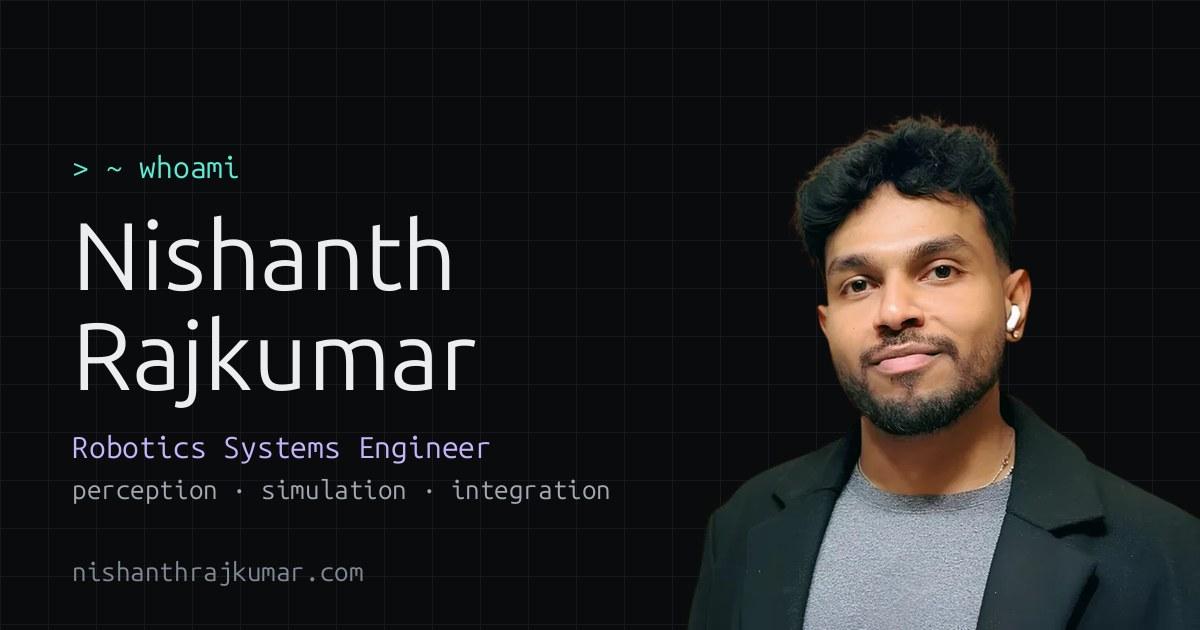
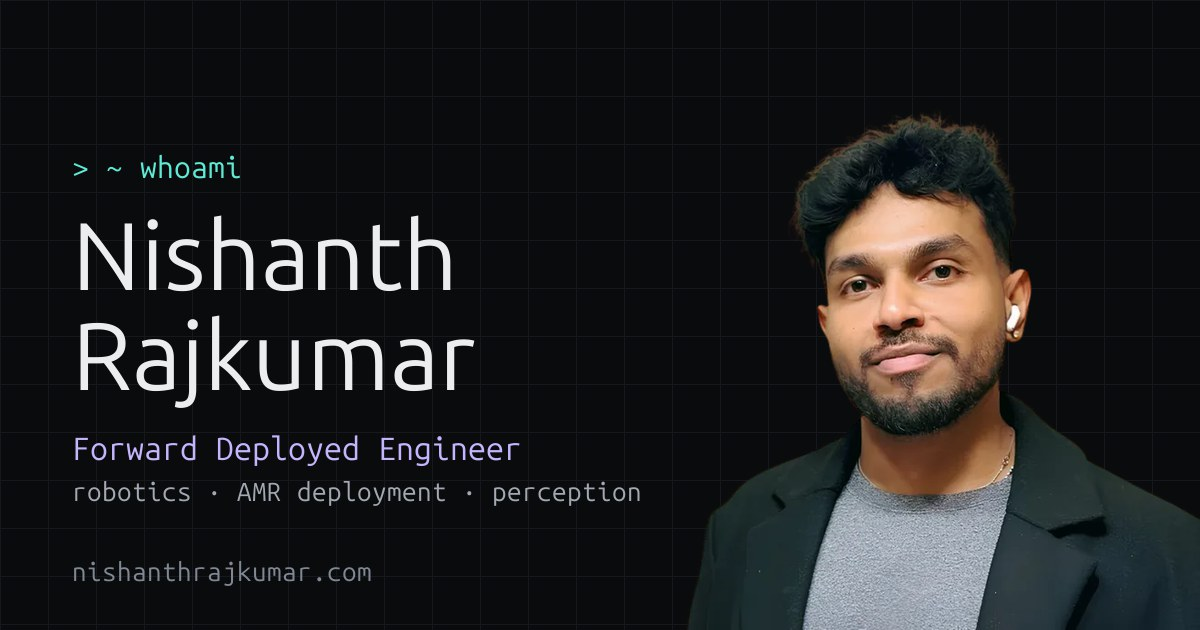
Hero: present as a forward deployed engineer for robots
Leads the role tags, intro, profile card, page title, share text and
preview image with Forward Deployed Engineer, keeping the Rockwell
Automation systems engineer title as the current position.

diff --git a/index.html b/index.html
@@ -2,15 +2,15 @@
 <html lang="en"><head>
 <meta charset="utf-8">
 <meta name="viewport" content="width=device-width, initial-scale=1, viewport-fit=cover">
-<title>Nishanth Rajkumar — Robotics Systems Engineer</title>
-<meta name="description" content="Nishanth Rajkumar, Robotics Systems Engineer at Rockwell Automation. Robot perception, simulation, systems integration and industrial AMR deployment.">
+<title>Nishanth Rajkumar — Forward Deployed Engineer, Robotics</title>
+<meta name="description" content="Nishanth Rajkumar, forward deployed engineer for robots. Deploys autonomous industrial AMRs at Rockwell Automation, from commissioning to production, and builds robot perception, simulation and integration systems.">
 <link rel="canonical" href="https://nishanthrajkumar.com/">
 <meta name="theme-color" content="#0A0B0D">
 <meta name="color-scheme" content="dark">
 <meta property="og:type" content="website">
 <meta property="og:site_name" content="Nishanth Rajkumar">
-<meta property="og:title" content="Nishanth Rajkumar — Robotics Systems Engineer">
-<meta property="og:description" content="Nishanth Rajkumar, Robotics Systems Engineer at Rockwell Automation. Robot perception, simulation, systems integration and industrial AMR deployment.">
+<meta property="og:title" content="Nishanth Rajkumar — Forward Deployed Engineer, Robotics">
+<meta property="og:description" content="Nishanth Rajkumar, forward deployed engineer for robots. Deploys autonomous industrial AMRs at Rockwell Automation, from commissioning to production, and builds robot perception, simulation and integration systems.">
 <meta property="og:url" content="https://nishanthrajkumar.com/">
 <meta property="og:image" content="https://nishanthrajkumar.com/img/og-card.jpg">
 <meta property="og:image:width" content="1200">
@@ -26,7 +26,7 @@ body{margin:0;background:#0A0B0D}
 a{color:#ECEDEE}a:hover{color:#A78BFA}
 </style>
 <link rel="stylesheet" href="site.css">
-<script type="application/ld+json">{"@context": "https://schema.org", "@type": "Person", "name": "Nishanth Rajkumar", "url": "https://nishanthrajkumar.com/", "jobTitle": "Robotics Systems Engineer", "worksFor": {"@type": "Organization", "name": "Rockwell Automation"}, "sameAs": ["https://github.com/nishanthrajkumarr"]}</script>
+<script type="application/ld+json">{"@context": "https://schema.org", "@type": "Person", "name": "Nishanth Rajkumar", "url": "https://nishanthrajkumar.com/", "jobTitle": "Forward Deployed Engineer, Robotics", "worksFor": {"@type": "Organization", "name": "Rockwell Automation"}, "sameAs": ["https://github.com/nishanthrajkumarr"]}</script>
 <script src="site.js" defer></script>
 </head>
 <body>
@@ -59,13 +59,14 @@ a{color:#ECEDEE}a:hover{color:#A78BFA}
 <p class="prompt"><span class="ps">➜</span><span class="path">~</span><span>whoami</span></p>
 <h1 style="color:#FFFFFF;background:var(--surface)">Nishanth<br>Rajkumar</h1>
 <ul class="roles">
-<li class="role">Robotics Systems Engineer</li>
+<li class="role" style="color: var(--mint); border-color: rgba(94, 234, 212, .4)">Forward Deployed Engineer · Robotics</li>
+<li class="role">AMR Deployment</li>
 <li class="role">Robot Perception</li>
 <li class="role">Simulation</li>
 <li class="role">Systems Integration</li>
 </ul>
-<p class="lede">I’m a systems engineer at <strong>Rockwell Automation</strong>, where we deploy fully autonomous industrial AMRs for material handling at Fortune 500 companies like <strong>GM</strong> and <strong>Nissan</strong>. I also build robotic systems that connect mechanical design, controls, ROS, simulation, perception, and real-world deployment.</p>
-<p class="lede">My work spans industrial AMR deployment, robotic systems integration, perception pipelines, simulation, teleoperation, and sim-to-real validation.</p>
+<p class="lede">I’m a <strong>forward deployed engineer</strong> for robots. As a systems engineer at <strong>Rockwell Automation</strong>, I deploy fully autonomous industrial AMRs for material handling at Fortune 500 companies like <strong>GM</strong> and <strong>Nissan</strong>, on site from commissioning through production.</p>
+<p class="lede">I also build robotic systems that connect mechanical design, controls, ROS, simulation, perception, and real-world deployment.</p>
 <div class="cta">
 <a class="btn btn-primary" href="#projects">View projects <svg class="i i-sm" viewBox="0 0 24 24" aria-hidden="true"><path d="M12 5v14M19 12l-7 7-7-7"></path></svg></a>
 <a class="btn" href="#contact">Get in touch</a>
@@ -77,11 +78,12 @@ a{color:#ECEDEE}a:hover{color:#A78BFA}
 <div class="portrait"><img src="img/home-portrait.webp" alt="Portrait of Nishanth Rajkumar" width="615" height="615"></div>
 <div class="code" aria-label="Profile summary">
 <div class="line"><span class="ln">1</span><span class="c"># profile.yaml</span></div>
-<div class="line"><span class="ln">2</span><span class="k">role:</span><span class="s">Systems Engineer @ Rockwell Automation</span></div>
-<div class="line"><span class="ln">3</span><span class="k">ships:</span><span class="s">autonomous industrial AMRs</span></div>
-<div class="line"><span class="ln">4</span><span class="k">customers:</span><span class="s">[GM, Nissan, Fortune 500]</span></div>
-<div class="line"><span class="ln">5</span><span class="k">focus:</span><span class="s">[physical-ai, perception, sim-to-real]</span></div>
-<div class="line"><span class="ln">6</span><span class="k">stack:</span><span class="s">[ros2, isaac-sim, gazebo, genesis, solidworks]</span></div>
+<div class="line"><span class="ln">2</span><span class="k">role:</span><span class="s">Forward Deployed Engineer · Robotics</span></div>
+<div class="line"><span class="ln">3</span><span class="k">at:</span><span class="s">Systems Engineer @ Rockwell Automation</span></div>
+<div class="line"><span class="ln">4</span><span class="k">ships:</span><span class="s">autonomous industrial AMRs, on site</span></div>
+<div class="line"><span class="ln">5</span><span class="k">customers:</span><span class="s">[GM, Nissan, Fortune 500]</span></div>
+<div class="line"><span class="ln">6</span><span class="k">focus:</span><span class="s">[physical-ai, perception, sim-to-real]</span></div>
+<div class="line"><span class="ln">7</span><span class="k">stack:</span><span class="s">[ros2, isaac-sim, gazebo, genesis, solidworks]</span></div>
 </div>
 </div>
 </div>
